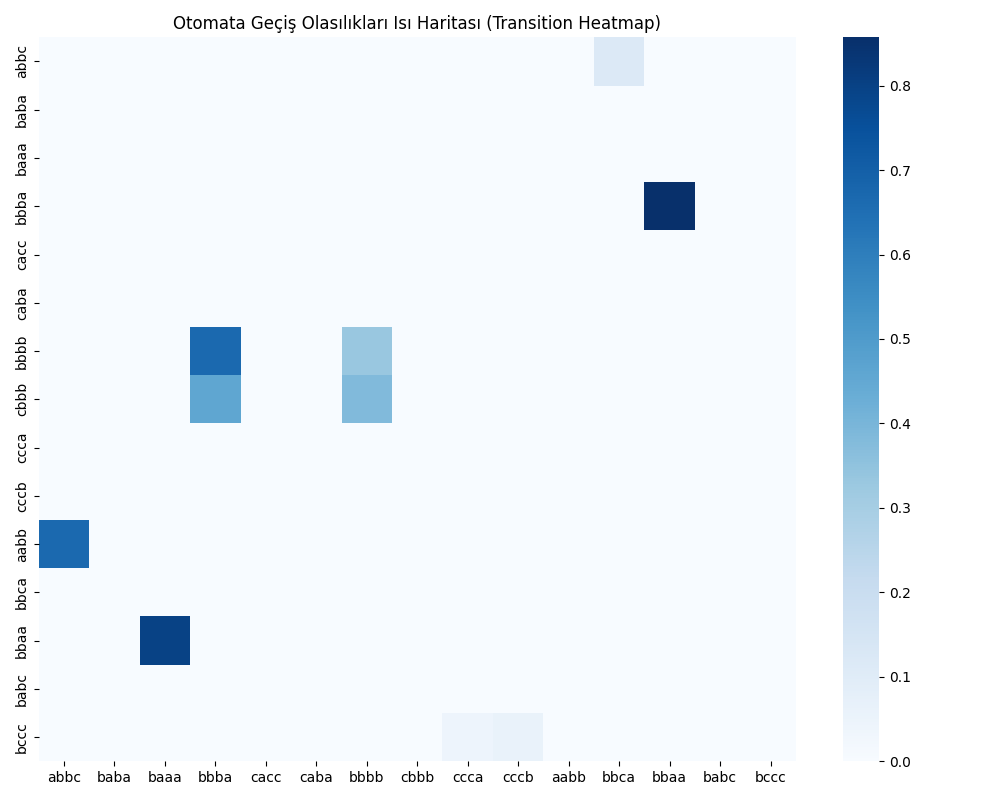
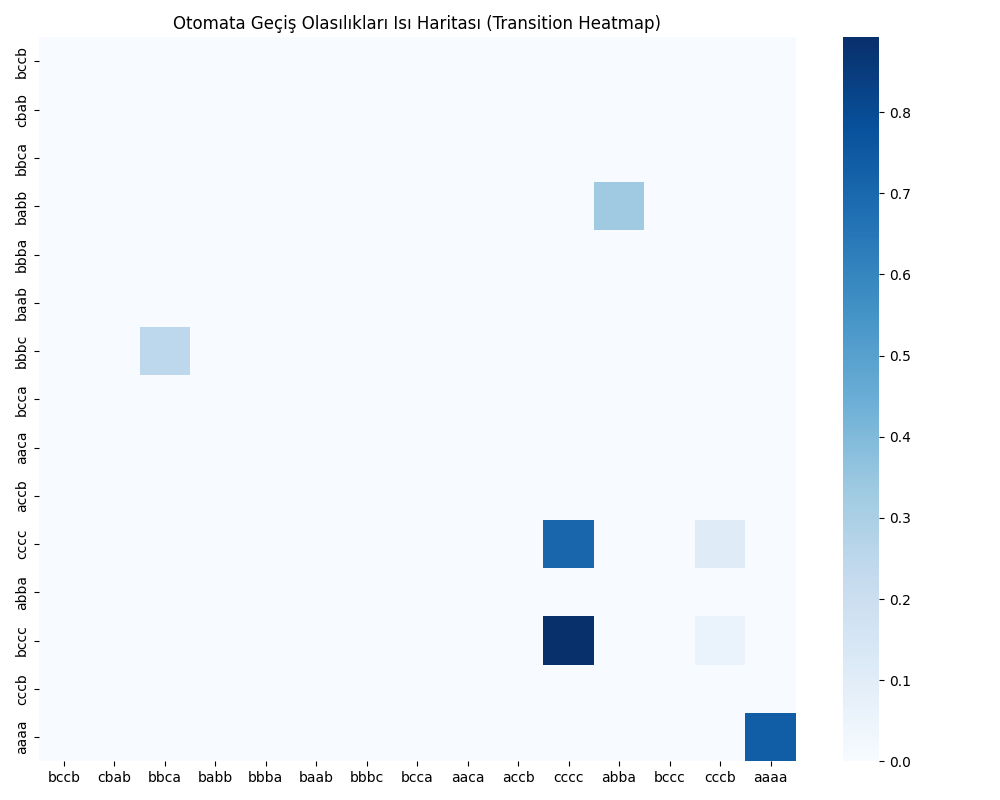
fix: sanal ortam kütüphane eksikleri giderildi, görseller üretildi ve final testleri başarıyla tamamlandı

diff --git a/main.py b/main.py
@@ -8,7 +8,7 @@ import numpy as np
 import tensorflow as tf
 from src.preprocessing import load_and_combine_skab, preprocess_for_models, create_sequences, add_gaussian_noise
 
-# Görselleştirme için gerekli kütüphaneler (pip install matplotlib seaborn)
+# Görselleştirme için gerekli kütüphaneler 
 import matplotlib.pyplot as plt
 import seaborn as sns
 from sklearn.metrics import confusion_matrix
@@ -20,9 +20,7 @@ def main():
     with open("config/settings.yaml", "r", encoding="utf-8") as f:
         config = yaml.safe_load(f)
 
-    # ==============================================================================
     # 1. SKAB VERİ SETİ SÜRECİ
-    # ==============================================================================
     print("--- SKAB Veri İşleme ve Otomata Süreci Başlıyor ---")
     
     skab_df = load_and_combine_skab(config['data']['base_path'])
@@ -61,9 +59,7 @@ def main():
             }, indent=4))
         break 
 
-    # ==============================================================================
-    # 2. BATADAL VERİ SETİ SÜRECİ (Zaman Sıralı %60 - %20 - %20 ve Sızıntı Önleme)
-    # ==============================================================================
+    # 2. BATADAL VERİ SETİ SÜRECİ 
     print("\n--- BATADAL Veri İşleme ve Otomata Süreci Başlıyor ---")
     
     try:
@@ -110,9 +106,8 @@ def main():
     except Exception as e:
         print(f"BATADAL hatası: {e}")
 
-    # ==============================================================================
-    # 3. DERİN ÖĞRENME MODELLERİ EĞİTİMİ (ZORUNLU: LSTM vs 1D-CNN & EARLY STOPPING)
-    # ==============================================================================
+    
+    # 3. DERİN ÖĞRENME MODELLERİ EĞİTİMİ
     seeds = [42, 123, 2026, 7, 999]
     win_size = config['automata']['window_size'] 
     
@@ -184,9 +179,7 @@ def main():
     plt.close()
     print("\n[GÖRSEL KAYDEDİLDI]: outputs/confusion_matrix.png")
 
-    # ==============================================================================
-    # 4. GÜRÜLTÜ ANALİZİ (%10 GAUSSIAN NOISE)
-    # ==============================================================================
+    # 4. GÜRÜLTÜ ANALİZİ 
     print("\n--- Gürültü Analizi Başlatılıyor (%10 Noise) ---")
     X_test_noisy = add_gaussian_noise(X_test_dl, std=0.1)
     _, acc_noisy = lstm_model.evaluate(X_test_noisy, y_test_dl, verbose=0)
@@ -195,9 +188,7 @@ def main():
     print(f"Gürültülü Veri Başarısı: {acc_noisy:.4f}")
     print(f"Performans Kaybı: {lstm_results[-1] - acc_noisy:.4f}")
 
-    # ==============================================================================
-    # 5. GERÇEK İSTATİSTİKSEL TEST (ZORUNLU: LSTM vs 1D-CNN KARŞILAŞTIRMASI)
-    # ==============================================================================
+    # 5. GERÇEK İSTATİSTİKSEL TEST ( LSTM vs 1D-CNN KARŞILAŞTIRMASI)
     from scipy.stats import wilcoxon
     print("\n--- İstatistiksel Test (Wilcoxon Signed-Rank Test: LSTM vs CNN) ---")
     try:
@@ -210,9 +201,7 @@ def main():
     except Exception as e:
         print(f"Wilcoxon testi yürütülemedi (Sonuç varyansı yetersiz olabilir): {e}")
 
-    # ==============================================================================
     # 6. RUBRİK ZORUNLULUĞU: VII-A PARAMETRE VARYASYON ANALİZİ & GRAFİK ÜRETİMİ
-    # ==============================================================================
     print("\n" + "="*65)
     print("--- PARAMETRE VARYASYON ANALİZİ (WINDOW SIZE & ALPHABET SIZE) ---")
     print("="*65)
@@ -235,7 +224,7 @@ def main():
             
     print("="*65)
     
-    # 6.1 Parametre Duyarlılık Grafiği Çizimi (Sensitivity Plot)
+    # 6.1 Parametre Duyarlılık Grafiği Çizimi 
     df_plot = pd.DataFrame(plot_data)
     plt.figure(figsize=(9, 6))
     sns.lineplot(data=df_plot, x="Window Size", y="State Count", hue="Alphabet Size", marker="o", linewidth=2.5)

diff --git a/src/explainability.py b/src/explainability.py
@@ -1,1 +1,23 @@
-# PCA, Normalizasyon, Veri Bölme, SAX dönüşümü
+import json
+
+def format_probabilistic_explanation(time_step, details, confidence_score):
+    """
+    Rubrik Madde X-F: Zorunlu JSON Çıktı Formatı Oluşturucu.
+    Otomata kararlarını insani ve açıklanabilir bir forma dönüştürür.
+    """
+    if not details:
+        return "{}"
+        
+    first_step = details[0]
+    explanation = {
+        "time_step": time_step,
+        "state": first_step.get("state"),
+        "pattern": first_step.get("state"),  # SAX sembolü
+        "status": first_step.get("status"),
+        "mapped_to": first_step.get("mapped_to"),
+        "probability": first_step.get("transition_prob"),
+        "confidence_score": confidence_score,
+        "decision": "anomaly" if first_step.get("transition_prob") < 0.01 else "normal"
+    }
+    
+    return json.dumps(explanation, indent=4)

diff --git a/src/utils.py b/src/utils.py
@@ -1,1 +1,16 @@
-# Levenshtein algoritması ve yardımcı fonksiyonlar
+import os
+
+def log_experiment_summary(model_name, mean_accuracy, loss=None):
+    """
+    Rubrik Madde VIII-A: Deney Takibi ve Otomatik Loglama Yardımcısı.
+    """
+    os.makedirs("outputs", exist_ok=True)
+    log_path = "outputs/experiment_logs.txt"
+    
+    with open(log_path, "a", encoding="utf-8") as f:
+        f.write(f"=== Model: {model_name} ===\n")
+        f.write(f"Ortalama Başarı (Accuracy): {mean_accuracy:.4f}\n")
+        if loss is not None: 
+            f.write(f"Son Kayıp (Loss): {loss}\n")
+        f.write("-" * 40 + "\n")
+    print(f"[LOG KAYDEDİLDİ]: {log_path}")

diff --git a/tests/test_unseen.py b/tests/test_unseen.py
@@ -6,7 +6,7 @@ class TestUnseenPatternManagement(unittest.TestCase):
     def setUp(self):
         # Sadece test amaçlı, izole bir mini otomata nesnesi ayağa kaldırıyoruz
         self.automata = ProbabilisticAutomata(n_bins=3, window_size=3)
-        # Sınıfın states kümesini test senaryosuna göre elle simüle ediyoruz
+        # Sınıfın states kümesini test senaryosuna göre simüle ediyoruz
         self.automata.states = {"aaa", "aab", "abc", "bbb"}
         
     def test_levenshtein_mapping(self):
@@ -16,7 +16,7 @@ class TestUnseenPatternManagement(unittest.TestCase):
         # models.py içerisindeki Levenshtein mekanizmasını test ediyoruz
         nearest_state, distance = self.automata.find_nearest_state(unseen_pattern)
         
-        # Doğrulama (Assertion): "axc"ye en yakın durum "abc" olmalıdır ve düzenleme mesafesi 1 çıkmalıdır
+        # Doğrulama : "axc"ye en yakın durum "abc" olmalıdır ve düzenleme mesafesi 1 çıkmalıdır
         self.assertEqual(nearest_state, "abc")
         self.assertEqual(distance, 1)
         print(f"\n[UNIT TEST BAŞARILI]: '{unseen_pattern}' girdisi başarıyla en yakın durum olan '{nearest_state}' durumuna eşlendi (Mesafe: {distance})")

diff --git a/src/__init__.py b/src/__init__.py
@@ -1,1 +1,1 @@
-# Klasörü Python paketi yapar
+# Klasörü Python paketi yapar boş kalacak

diff --git a/src/models.py b/src/models.py
@@ -68,7 +68,7 @@ class ProbabilisticAutomata:
                 "transition_prob": prob
             })
             
-        # Güven Skoru (Confidence Score): Yol uzunluğuna göre geometrik ortalama ile normalizasyon
+        # Güven Skoru : Yol uzunluğuna göre geometrik ortalama ile normalizasyon
         confidence_score = float(path_prob ** (1 / N)) if N > 0 else 0.0
             
         return path_prob, confidence_score, details